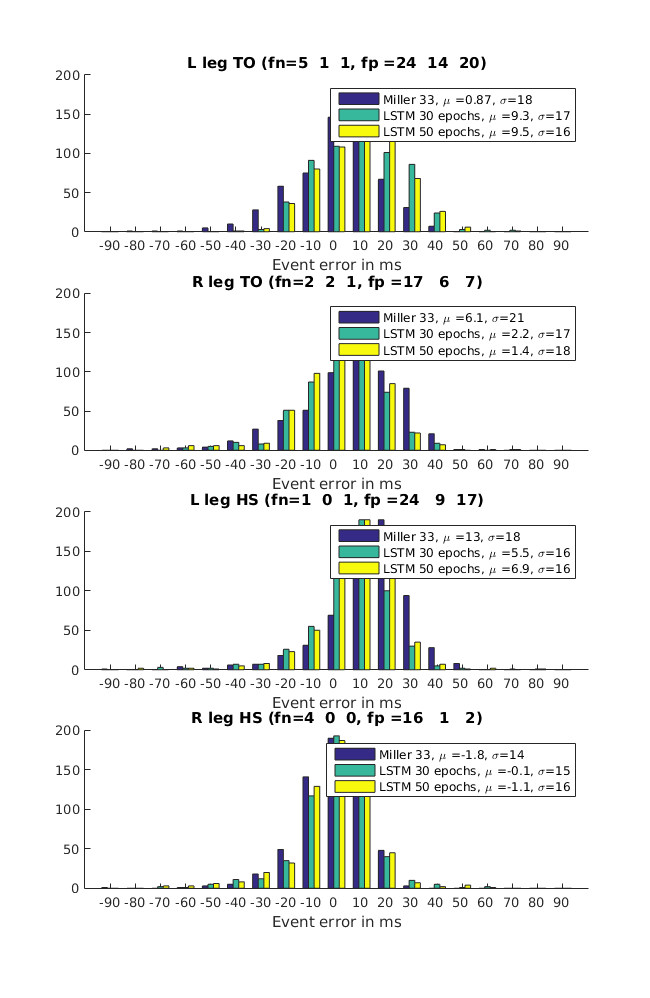
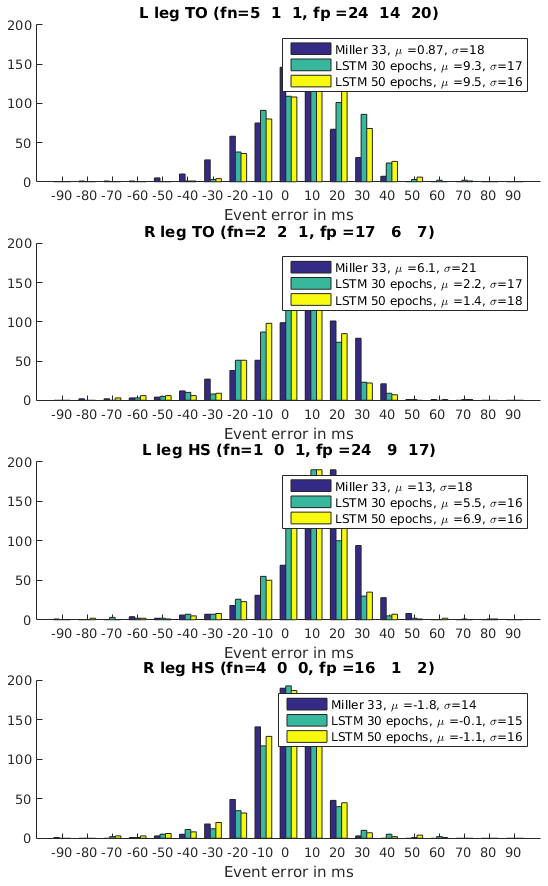
Fixed fig

diff --git a/paper/paper.tex b/paper/paper.tex
@@ -384,7 +384,7 @@ Once we settled on parameters for our network, we trained it for 100 epochs and 
 
 \begin{figure}[H]
  \centering
- \includegraphics[scale=.5]{./figures/Test1_1Train1_2Compare.png}
+ \includegraphics[scale=.45]{./figures/Test1_2Train1_1Compare.png}
  % \includesvg[scale=.31]{./figures/Test1_1Train1_2Compare.svg}
  % Test1_1Train1_2Compare.png: 0x0 pixel, 300dpi, 0.00x0.00 cm, bb=
  \caption{Comparison of Miller vs. LSTM network for various training intervals, for dataset 1.}
@@ -392,11 +392,11 @@ Once we settled on parameters for our network, we trained it for 100 epochs and 
 \end{figure}
 
 \subsection{Dataset 2}
-The second dataset was designed to assess how well the methods generalize to new users. We performed the same treatment as for the previous dataset, and results are shown on \ref{fig:halfAndHalfUsers}. From these results we can see that the LSTM network achieves better accuracy than Miller, with less false positives and false negatives. However, the false positive rate is somewhat high for the LSTM network too. 
+The second dataset was designed to assess how well the methods generalize to new users. We performed the same treatment as for the previous dataset, and results are shown on \ref{fig:halfAndHalfUsers}. From these results we can see that the LSTM network achieves better accuracy than Miller, with less false positives and false negatives. However, the false positive rate is somewhat high for the LSTM network too. It can also be seen that for the LSTM network trained over 50 epochs r
 
 \begin{figure}[H]
  \centering
- \includegraphics[scale=.5]{./figures/Test2_1Train2_2Compare.png}
+ \includegraphics[scale=.45]{./figures/Test2_1Train2_2Compare.png}
   %\includesvg[scale=.4]{./figures/Test2_2Train2_1Compare.svg}
  % Test1_1Train1_2Compare.png: 0x0 pixel, 300dpi, 0.00x0.00 cm, bb=
  \caption{Comparison of Miller vs. LSTM network for various training intervals, for dataset 2.}
@@ -416,7 +416,7 @@ It is worth noticing that our implementation can do event detection in real time
 Although our results are promising and seem to improve the current state-of-the-art, there a few things that still can be done to assess and improve performance:
 \begin{enumerate}
  \item Run a true grid search to find the best training parameters.
- \item Run the training for a longer time and use cross-validation to determine reasonable stopping criteria.
+ \item Run the training for a longer time and use cross-validation to determine reasonable stopping criteria and avoid over-fitting.
  \item Use the network with a delay in the output, so we effectively use information of a window of time around the desired time sample to infer events. This would make this method more comparable to the exisiting algorithms, which usually work with the smoothing problem, and not with the real-time filtering problem. Arguably this could only improve the performance of the method, as more information would be available to make the classification of each sample.
  \item Assess generalization to pathological gait subjects.
  \item Assess generalization to over-ground walking data (no ground truth in our dataset).
